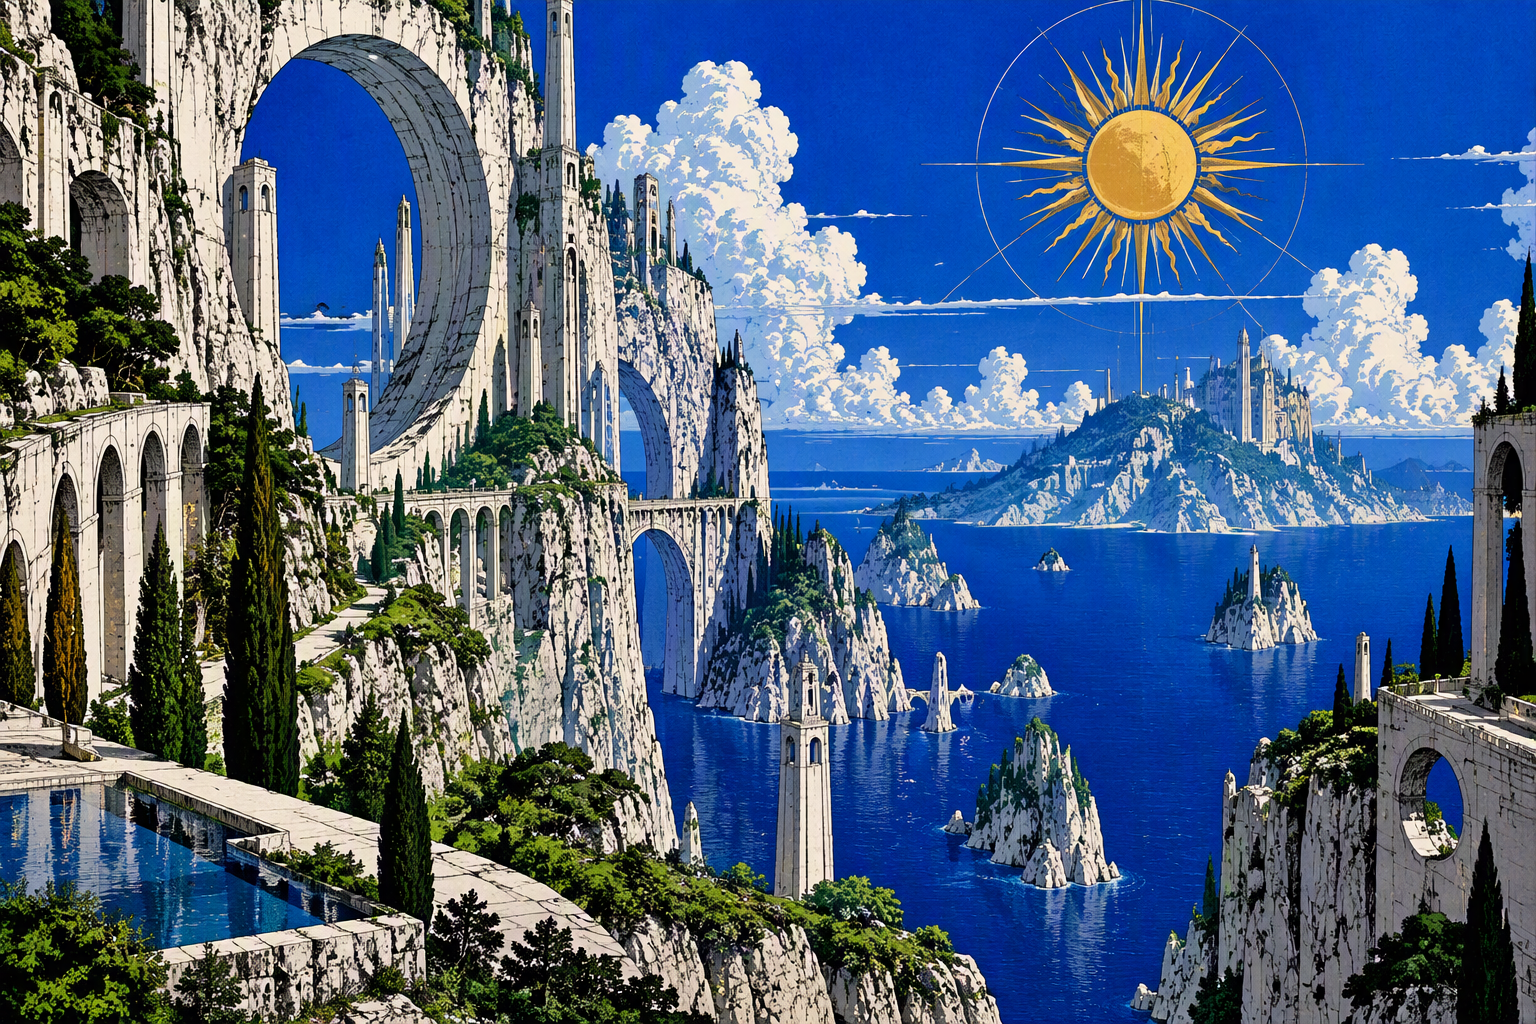
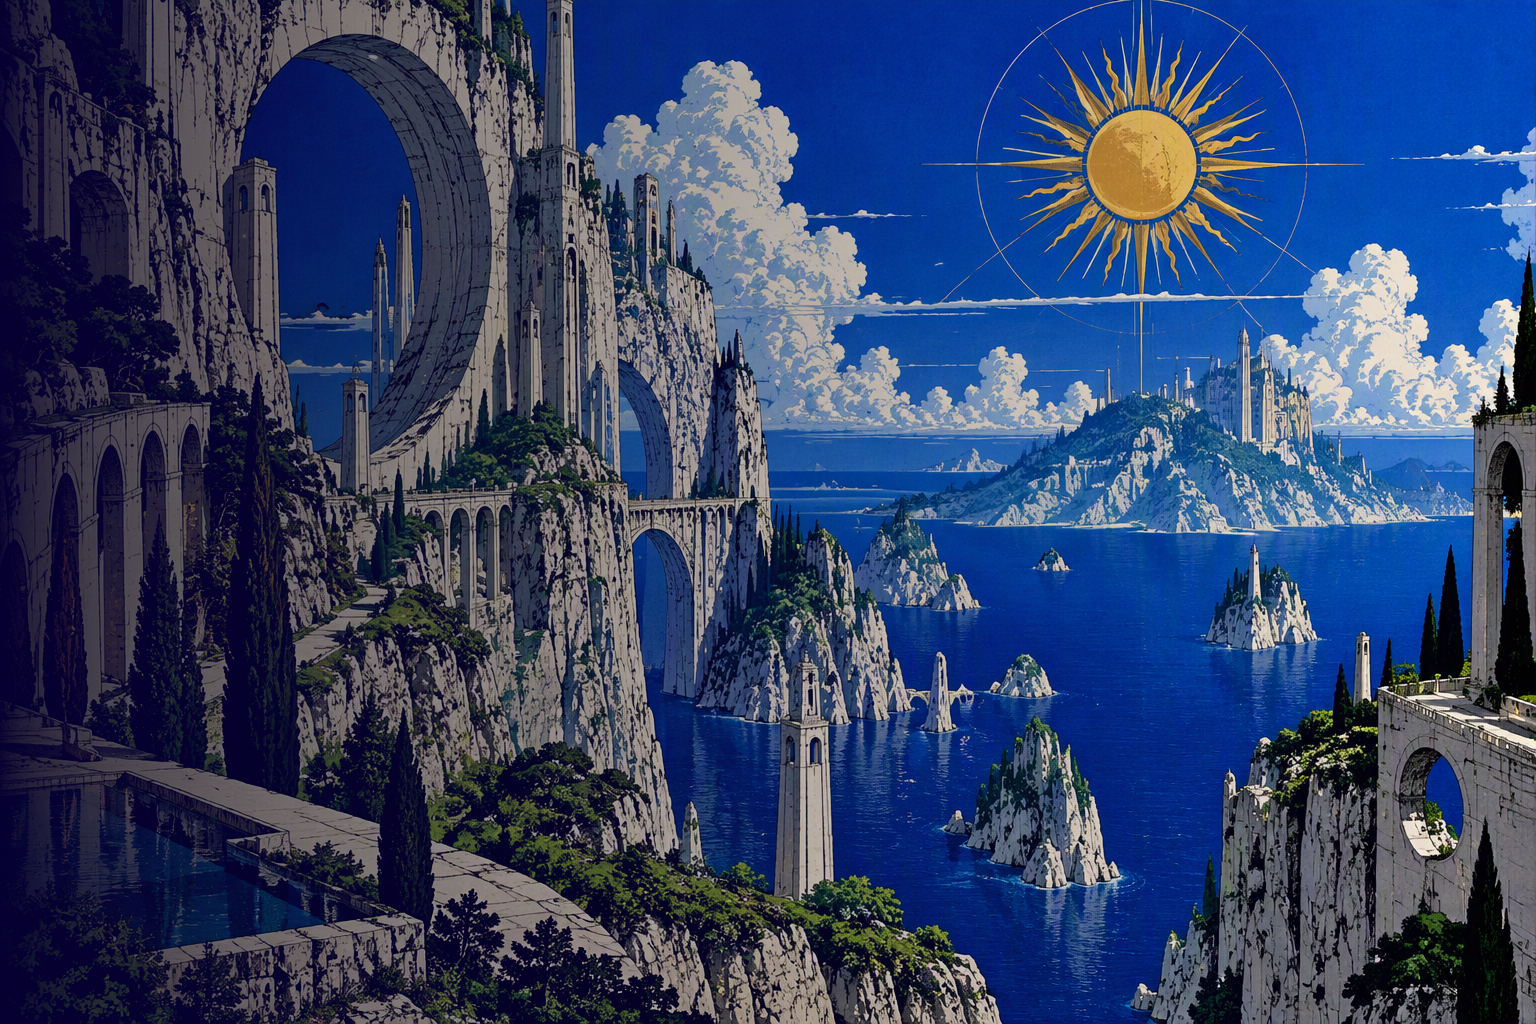
new images, lighting effect on maps

diff --git a/src/entity/Player.java b/src/entity/Player.java
@@ -12,6 +12,7 @@ import monster.Monster;
 import npc.NPC;
 import object.GameObject;
 import object.armor.Armor;
+import object.lighting.Light;
 import object.shield.Shield;
 import object.weapon.Weapon;
 import projectile.Fireball;
@@ -26,6 +27,7 @@ public class Player extends Entity {
     private final Keyboard keyboard;
     public int screenX;
     public int screenY;
+    public boolean lightUpdated;
 
     public Player(GamePanel p, Keyboard k) {
         super(p);
@@ -50,6 +52,7 @@ public class Player extends Entity {
         this.maxHearts = 5; this.currentHearts = this.maxHearts;
         this.maxMana = 3; this.currentMana = this.maxMana;
         this.currentLevel = 1; this.currentExperience = 0; this.nextLevelExperience = 10;
+        this.lightUpdated = false;
         this.currentWeapon = new SwordIron(this.gamePanel, -1, -1);
         this.currentShield = new ShieldWood(this.gamePanel, -1, -1);
         this.currentArmor = new ArmorIron(this.gamePanel, -1, -1);
@@ -397,8 +400,8 @@ public class Player extends Entity {
         }
     }
     public void equipCurrentSelectedInventoryObject() {
-        int itemIndex = this.gamePanel.gui.getSelectedInventoryItemIndexOnSlot(this.gamePanel.gui.playerInventorySlotColumnSelected, this.gamePanel.gui.playerInventorySlotRowSelected);
-        if (itemIndex < this.inventory.size() && this.inventory.get(itemIndex) instanceof GameObject selectedObject) {
+        int objectIndex = this.gamePanel.gui.getSelectedInventoryItemIndexOnSlot(this.gamePanel.gui.playerInventorySlotColumnSelected, this.gamePanel.gui.playerInventorySlotRowSelected);
+        if (objectIndex < this.inventory.size() && this.inventory.get(objectIndex) instanceof GameObject selectedObject) {
             switch (selectedObject.objectCategory) {
                 case ObjectCategory.WEAPON:
                     this.currentWeapon = (Weapon) selectedObject;
@@ -418,11 +421,18 @@ public class Player extends Entity {
                         selectedObject.objectCurrentStackableAmount--;
                     }
                     else {
-                        this.inventory.remove(itemIndex);
+                        this.inventory.remove(objectIndex);
                     }
                     break;
                 case ObjectCategory.INTERACTABLE:
-                    selectedObject.use(this);
+                    boolean successful = selectedObject.useSuccessful(this);
+                    if (successful) {
+                        this.inventory.remove(objectIndex);
+                    }
+                    break;
+                case ObjectCategory.LIGHT:
+                    this.currentLight = (this.currentLight != selectedObject) ? (Light) selectedObject : null;
+                    this.lightUpdated = true;
                     break;
             }
         }

diff --git a/src/environment/Lighting.java b/src/environment/Lighting.java
@@ -1,0 +1,68 @@
+package environment;
+
+import main.GamePanel;
+
+import java.awt.Color;
+import java.awt.Graphics2D;
+import java.awt.RadialGradientPaint;
+import java.awt.image.BufferedImage;
+
+public class Lighting {
+    private final GamePanel gamePanel;
+    private BufferedImage darknessFilterImage;
+    private final int GRADATION_STEPS = 10;
+
+    public Lighting(GamePanel gamePanel) {
+        this.gamePanel = gamePanel;
+        this.setLightSource();
+    }
+
+    public void update() {
+        if (this.gamePanel.player.lightUpdated) {
+            this.setLightSource();
+            this.gamePanel.player.lightUpdated = false;
+        }
+    }
+
+    public void draw(Graphics2D graphics2D) {
+        graphics2D.drawImage(this.darknessFilterImage, 0, 0, null);
+    }
+
+    public void setLightSource() {
+        this.darknessFilterImage = new BufferedImage(gamePanel.screenWidth, gamePanel.screenHeight, BufferedImage.TYPE_INT_ARGB);
+        Graphics2D graphics2D = (Graphics2D) this.darknessFilterImage.getGraphics();
+
+        if (this.gamePanel.player.currentLight == null) {
+            graphics2D.setColor(new Color(0, 0, 0, 0.80F));
+        }
+        else {
+            // get coords for light circle
+            int circleCenterX = gamePanel.player.screenX + (gamePanel.tileSize / 2);
+            int circleCenterY = gamePanel.player.screenY + (gamePanel.tileSize / 2);
+            // calc and paint light circle
+            RadialGradientPaint radialGradientPaint = new RadialGradientPaint(circleCenterX, circleCenterY, this.gamePanel.player.currentLight.lightRadius, this.getFractions(), this.getColors());
+            graphics2D.setPaint(radialGradientPaint);
+        }
+        graphics2D.fillRect(0, 0, gamePanel.screenWidth, gamePanel.screenHeight);
+        graphics2D.dispose();
+    }
+
+    private Color[] getColors() {
+        return new Color[] {
+            new Color(0, 0, 0, 0.10f),
+            new Color(0, 0, 0, 0.10f),
+            new Color(0, 0, 0, 0.10f),
+            new Color(0, 0, 0, 0.10f),
+            new Color(0, 0, 0, 0.42f),
+            new Color(0, 0, 0, 0.52f),
+            new Color(0, 0, 0, 0.61f),
+            new Color(0, 0, 0, 0.69f),
+            new Color(0, 0, 0, 0.76f),
+            new Color(0, 0, 0, 0.80f)
+        };
+    }
+
+    private float[] getFractions() {
+        return new float[] {0f, 0.4f, 0.5f, 0.6f, 0.7f, 0.8f, 0.85f, 0.9f, 0.95f, 1f};
+    }
+}

diff --git a/src/main/GamePanel.java b/src/main/GamePanel.java
@@ -11,6 +11,7 @@ import java.util.*;
 import javax.swing.JPanel;
 
 import enums.GameState;
+import environment.EnvironmentManager;
 import tile.TileManager;
 
 public class GamePanel extends JPanel implements Runnable {
@@ -50,6 +51,7 @@ public class GamePanel extends JPanel implements Runnable {
     public GUI gui = new GUI(this);
     public EventHandler eventHandler = new EventHandler(this);
     public PathFinder pathFinder = new PathFinder(this);
+    public EnvironmentManager environmentManager = new EnvironmentManager(this);
     public Config config = new Config(this);
     public Player player = new Player(this, this.keyboard);
 
@@ -69,6 +71,7 @@ public class GamePanel extends JPanel implements Runnable {
 
     public void setupGame() {
         this.assetSetter.setAllAssetSetter();
+        this.environmentManager.setup();
         this.gameState = GameState.TITLE;
         // set drawing to the new bufferedImage graphic
         this.fullScreen = new BufferedImage(this.screenWidth, this.screenHeight, BufferedImage.TYPE_INT_ARGB);
@@ -134,7 +137,7 @@ public class GamePanel extends JPanel implements Runnable {
 
     public void update() {
         if (this.gameState == GameState.PLAYING) {
-            // draw all entities (npc, monster, projectiles)
+            // update all entities (npc, monster, projectiles)
             for (int idx = 0; idx < this.maps.get(this.currentMapNumber).entities.size(); idx++) {
                 Entity entity = this.maps.get(this.currentMapNumber).entities.get(idx);
                 if (entity != null) {
@@ -147,6 +150,7 @@ public class GamePanel extends JPanel implements Runnable {
                     }
                 }
             }
+            environmentManager.update();
         }
     }
 
@@ -184,6 +188,10 @@ public class GamePanel extends JPanel implements Runnable {
                 entity.draw(this.graphics2D);
             }
         }
+
+        // environment
+        this.environmentManager.draw(this.graphics2D);
+
         // GUI
         this.gui.draw(this.graphics2D);
     }

diff --git a/src/main/GUI.java b/src/main/GUI.java
@@ -62,7 +62,7 @@ public class GUI {
         this.tradingSelection = TradingSelection.BUY;
 
         BufferedImage titleImage = null;
-        try { titleImage = ImageIO.read(Objects.requireNonNull(getClass().getResourceAsStream("/res/titleScreen/title_screen.png"))); } catch (IOException _) {}
+        try { titleImage = ImageIO.read(Objects.requireNonNull(getClass().getResourceAsStream("/res/titleScreen/title_screen_2.png"))); } catch (IOException _) {}
         this.titleScreen = titleImage;
 
         Entity heart = new Heart(this.gamePanel, -1, -1);
@@ -139,7 +139,7 @@ public class GUI {
         this.graphics2D.drawString(titleText, xPos + 5, yPos + 5);
         this.graphics2D.setColor(new Color(0xffffff));
         this.graphics2D.drawString(titleText, xPos, yPos);
-        titleText = "Aether";
+        titleText = "Arcadia";
         yPos += (int) (this.gamePanel.tileSize * 1.5);
         this.graphics2D.setColor(Color.DARK_GRAY);
         this.graphics2D.drawString(titleText, xPos + 5, yPos + 5);
@@ -384,7 +384,11 @@ public class GUI {
         for (int idx = 1; idx < entity.inventory.size() + 1; idx++) {
             GameObject object = entity.inventory.get(idx - 1);
             // highlight players equipped items
-            if (object == entity.currentWeapon || object == entity.currentShield || object == entity.currentArmor) {
+            if (object == entity.currentWeapon ||
+                    object == entity.currentShield ||
+                    object == entity.currentArmor ||
+                    object == entity.currentLight
+            ) {
                 this.graphics2D.setColor(new Color(240, 190, 90));
                 this.graphics2D.fillRoundRect(inventorySlotX, inventorySlotY, this.gamePanel.tileSize, this.gamePanel.tileSize, 10, 10);
             }

diff --git a/src/tile/TileManager.java b/src/tile/TileManager.java
@@ -45,20 +45,20 @@ public class TileManager {
         setupTiles(10, "001", false);
         setupTiles(11, "002", false);
         // water
-        setupTiles(12, "018", true);
-        setupTiles(13, "019", true);
-        setupTiles(14, "020", true);
-        setupTiles(15, "021", true);
-        setupTiles(16, "022", true);
-        setupTiles(17, "023", true);
-        setupTiles(18, "024", true);
-        setupTiles(19, "025", true);
-        setupTiles(20, "026", true);
-        setupTiles(21, "027", true);
-        setupTiles(22, "028", true);
-        setupTiles(23, "029", true);
-        setupTiles(24, "030", true);
-        setupTiles(25, "031", true);
+        setupTiles(12, "water_clear", true);
+        setupTiles(13, "water_waves", true);
+        setupTiles(14, "water_north_west", true);
+        setupTiles(15, "water_north", true);
+        setupTiles(16, "water_north_east", true);
+        setupTiles(17, "water_west", true);
+        setupTiles(18, "water_east", true);
+        setupTiles(19, "water_south_west", true);
+        setupTiles(20, "water_south", true);
+        setupTiles(21, "water_south_east", true);
+        setupTiles(22, "water_top_left", true);
+        setupTiles(23, "water_top_right", true);
+        setupTiles(24, "water_bottom_left", true);
+        setupTiles(25, "water_bottom_left", true);
         // path
         setupTiles(26, "003", false);
         setupTiles(27, "004", false);

diff --git a/src/object/interactable/KeySilver.java b/src/object/interactable/KeySilver.java
@@ -17,15 +17,20 @@ public class KeySilver extends Interactable {
         this.objectDescription = "[" + this.objectName + "]\nA silver key.";
     }
 
-    public void use(Entity entity) {
+    public boolean useSuccessful(Entity entity) {
+        boolean successful = false;
         this.gamePanel.gameState = GameState.DIALOGUE;
         int objectIndex = this.getDetectedObjectNearby(entity, this.gamePanel.maps.get(this.gamePanel.currentMapNumber), ObjectType.DOOR);
         if (objectIndex != Integer.MAX_VALUE) {
             this.gamePanel.gui.currentDialogueMessage = "You use the " + this.objectName + " to open the door.";
-            this.gamePanel.maps.get(this.gamePanel.currentMapNumber).entities.set(objectIndex, null);
+            this.gamePanel.maps.get(this.gamePanel.currentMapNumber).entities.get(objectIndex).down1 = this.gamePanel.maps.get(this.gamePanel.currentMapNumber).entities.get(objectIndex).image2;
+            this.gamePanel.maps.get(this.gamePanel.currentMapNumber).entities.get(objectIndex).worldY -= this.gamePanel.tileSize;
+            this.gamePanel.maps.get(this.gamePanel.currentMapNumber).entities.get(objectIndex).isSolid = false;
+            successful = true;
         }
         else {
             this.gamePanel.gui.currentDialogueMessage = "What are you doing?";
         }
+        return successful;
     }
 }

diff --git a/src/object/interactable/KeyGold.java b/src/object/interactable/KeyGold.java
@@ -17,15 +17,20 @@ public class KeyGold extends Interactable {
         this.objectDescription = "[" + this.objectName + "]\nA golden key.";
     }
 
-    public void use(Entity entity) {
+    public boolean useSuccessful(Entity entity) {
+        boolean successful = false;
         this.gamePanel.gameState = GameState.DIALOGUE;
         int objectIndex = this.getDetectedObjectNearby(entity, this.gamePanel.maps.get(this.gamePanel.currentMapNumber), ObjectType.DOOR);
         if (objectIndex != Integer.MAX_VALUE) {
             this.gamePanel.gui.currentDialogueMessage = "You use the " + this.objectName + " to open the door.";
-            this.gamePanel.maps.get(this.gamePanel.currentMapNumber).entities.set(objectIndex, null);
+            this.gamePanel.maps.get(this.gamePanel.currentMapNumber).entities.get(objectIndex).down1 = this.gamePanel.maps.get(this.gamePanel.currentMapNumber).entities.get(objectIndex).image2;
+            this.gamePanel.maps.get(this.gamePanel.currentMapNumber).entities.get(objectIndex).worldY -= this.gamePanel.tileSize;
+            this.gamePanel.maps.get(this.gamePanel.currentMapNumber).entities.get(objectIndex).isSolid = false;
+            successful = true;
         }
         else {
             this.gamePanel.gui.currentDialogueMessage = "What are you doing?";
         }
+        return successful;
     }
 }

diff --git a/src/environment/EnvironmentManager.java b/src/environment/EnvironmentManager.java
@@ -1,0 +1,29 @@
+package environment;
+
+import main.GamePanel;
+
+import java.awt.Graphics2D;
+
+public class EnvironmentManager {
+    private final GamePanel gamePanel;
+
+    public EnvironmentManager(GamePanel gamePanel) {
+        this.gamePanel = gamePanel;
+    }
+
+    public void setup() {
+        this.gamePanel.maps.get(1).lighting = new Lighting(this.gamePanel);
+    }
+
+    public void update() {
+        if (this.gamePanel.maps.get(this.gamePanel.currentMapNumber).lighting != null) {
+            this.gamePanel.maps.get(this.gamePanel.currentMapNumber).lighting.update();
+        }
+    }
+
+    public void draw(Graphics2D graphics2D) {
+        if (this.gamePanel.maps.get(this.gamePanel.currentMapNumber).lighting != null) {
+            this.gamePanel.maps.get(this.gamePanel.currentMapNumber).lighting.draw(graphics2D);
+        }
+    }
+}

diff --git a/src/object/lighting/Torch.java b/src/object/lighting/Torch.java
@@ -1,0 +1,18 @@
+package object.lighting;
+
+import enums.ObjectType;
+import main.GamePanel;
+
+public class Torch extends Light {
+
+    public Torch(GamePanel gamePanel, int worldColumn, int worldRow) {
+        super(gamePanel, worldColumn, worldRow);
+
+        this.objectType = ObjectType.TORCH;
+        this.down1 = this.setupEntityImage("/res/objects/torch.png", this.gamePanel.tileSize, this.gamePanel.tileSize);
+        this.lightRadius = 200;
+        this.objectCoinValue = 100;
+        this.objectName = "Torch";
+        this.objectDescription = "[" + this.objectName + "]\nIlluminates your \nsurroundings";
+    }
+}

diff --git a/src/main/AssetSetter.java b/src/main/AssetSetter.java
@@ -3,9 +3,9 @@ package main;
 import entity.Entity;
 import npc.*;
 import monster.*;
-import object.GameObject;
 import object.armor.*;
 import object.interactable.*;
+import object.lighting.Torch;
 import object.obstacle.Chest;
 import object.obstacle.Door;
 import object.pickup.*;
@@ -60,6 +60,8 @@ public class AssetSetter {
 
                 new Door(this.gamePanel, 19, 14),
                 new Door(this.gamePanel, 25, 14),
+
+                new Torch(this.gamePanel, 24, 23),
 
                 new Chest(this.gamePanel, 16, 17, new ArrayList<>(List.of(
                     new PotionExperience(this.gamePanel, 21, 25),

diff --git a/src/object/obstacle/Door.java b/src/object/obstacle/Door.java
@@ -12,7 +12,9 @@ public class Door extends Obstacle {
         super(gamePanel, worldColumn, worldRow);
 
         this.objectType = ObjectType.DOOR;
-        this.down1 = this.setupEntityImage("/res/objects/door.png", this.gamePanel.tileSize, this.gamePanel.tileSize);
+        this.image1 = this.setupEntityImage("/res/objects/door.png", this.gamePanel.tileSize, this.gamePanel.tileSize);
+        this.image2 = this.setupEntityImage("/res/objects/door_opened.png", this.gamePanel.tileSize, this.gamePanel.tileSize * 2);
+        this.down1 = this.image1;
         this.objectName = "Door";
 
         this.isSolid = true;

diff --git a/src/tileFix/BigTree.java b/src/tileFix/BigTree.java
@@ -9,7 +9,7 @@ public class BigTree extends TileFix {
     public BigTree(GamePanel gamePanel, int worldColumn, int worldRow) {
         super(gamePanel, worldColumn, worldRow);
 
-        this.down1 = this.setupEntityImage("/res/tilesInteractive/big_tree.png", gamePanel.tileSize, gamePanel.tileSize * 2);
+        this.down1 = this.setupEntityImage("/res/tilesFix/big_tree.png", gamePanel.tileSize, gamePanel.tileSize * 2);
         this.isSolid = true;
         this.worldX = worldColumn * gamePanel.tileSize;
         this.worldY = (worldRow * gamePanel.tileSize) - gamePanel.tileSize;
